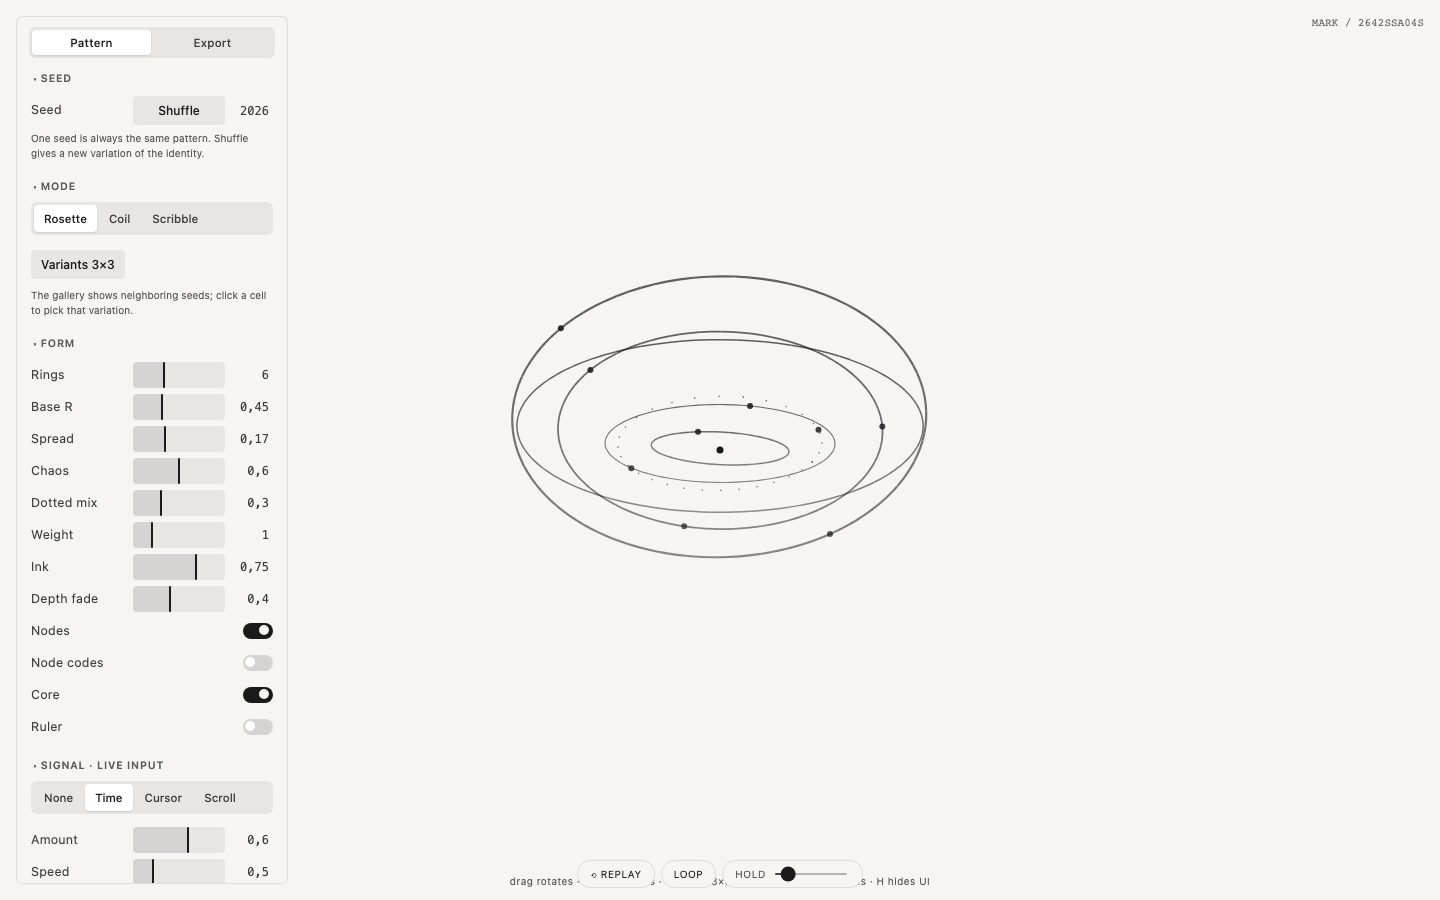
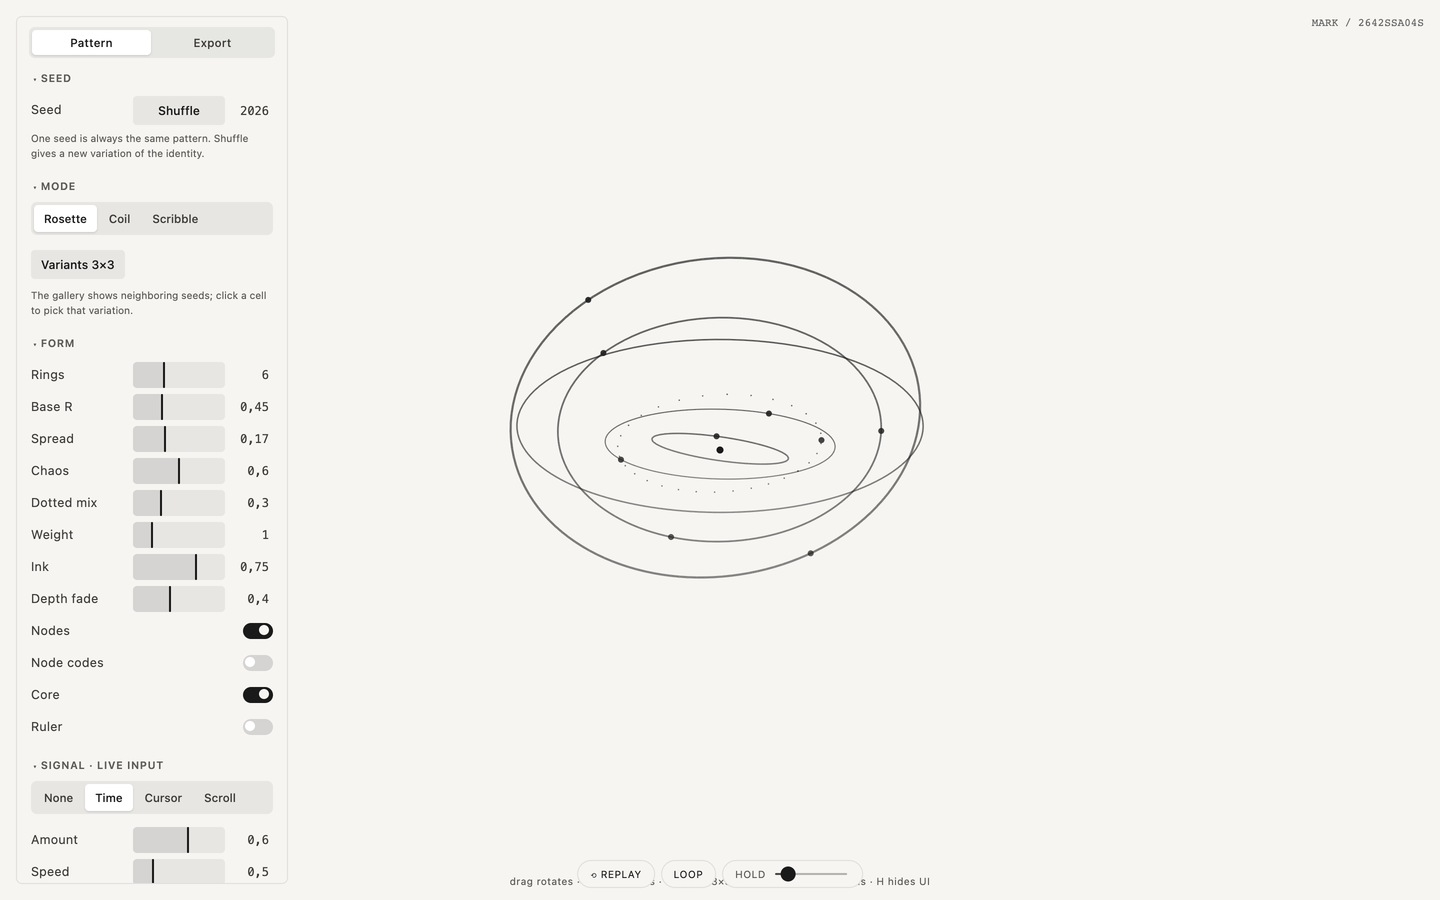
Cover, preview and search-friendly description

diff --git a/index.html b/index.html
@@ -115,7 +115,7 @@ legend{font:600 10.5px var(--h-sans);letter-spacing:.07em;color:var(--h-ink3)}
 #mtrans button[aria-pressed="true"]{background:var(--h-ink);color:var(--h-bg)}
 :focus-visible{outline:2px solid var(--h-ring);outline-offset:1px}
 </style>
[2 lines of base64/hex data omitted]
 </head>
 <body>
 <canvas id="cv"></canvas>

diff --git a/README.md b/README.md
@@ -19,6 +19,11 @@
 
 A machine for marks. Every seed is a pattern you can come back to; Shuffle finds the next one, and a 3×3 gallery shows its neighbors.
 
+## Use it for
+
+- a generative mark for a brand or a product
+- a family of related marks from neighboring seeds
+
 ## What it does
 
 - **Modes:** Rosette, Coil and Scribble
@@ -39,26 +44,26 @@ Take it if you want it.
 
 ## More tools
 
+- [GONE](https://github.com/robvagin/gone-player) · a macOS player for the thirty minutes before a DJ set
+- [PSP Engine](https://github.com/robvagin/shar-psp-engine) · a native engine that runs a PS2 game on the PSP. Not an emulator
 - [Particle Dance](https://github.com/robvagin/particle-dance) · particles that dance along patterns and 3D forms
+- [XYZ Cube](https://github.com/robvagin/xyz-cube) · your data as points in a 3D cube on axes you name
+- [Pack Label](https://github.com/robvagin/pack-label) · coffee bag labels, checked and ready for print
+- [Image Shuffler](https://github.com/robvagin/image-shuffler) · your screenshots flying in 3D, recorded as a video
+- [Sunburst](https://github.com/robvagin/sunburst) · a hierarchy as a 3D sunburst chart with height
+- [Halftone Cloud](https://github.com/robvagin/halftone-cloud) · images rebuilt as a halftone of flying shapes
+- [Motion Primer](https://github.com/robvagin/motion-primer) · bodies that swarm, orbit, fall and gather into a word
 - [Murmur](https://github.com/robvagin/murmur-vj) · a VJ visualizer: circles, triangles and squares that move to your music
+- [Particles 3D](https://github.com/robvagin/particles-3d) · a WebGL2 cloud of up to 300,000 particles
+- [Thinking Sphere](https://github.com/robvagin/thinking-sphere) · a glass sphere with soft shapes drifting inside
+- [Line Engine](https://github.com/robvagin/line-engine) · engraved line patterns in motion: Lissajous, rosettes, waves
 - [Orbital](https://github.com/robvagin/orbital) · data as orbits, axes or a bending mesh
 - [Metaballs](https://github.com/robvagin/metaballs) · soft masses that merge, split and leave holes
-- [Halftone Cloud](https://github.com/robvagin/halftone-cloud) · images rebuilt as a halftone of flying shapes
-- [Motion Primer](https://github.com/robvagin/motion-primer) · bodies with behaviors: swarm, pack, magnet, orbit, fall, scatter
-- [Particles 3D](https://github.com/robvagin/particles-3d) · a WebGL2 cloud of up to 300,000 particles
-- [Orb Atom](https://github.com/robvagin/orb-atom) · glass orbs that think: lenses with soft bodies drifting inside
 - [Ellipse Sphere](https://github.com/robvagin/ellipse-sphere) · a sphere built from stacked discs that fan open and assemble
-- [Thinking Sphere](https://github.com/robvagin/thinking-sphere) · a glass sphere with soft shapes drifting inside
-- [SphereGen](https://github.com/robvagin/spheregen) · a glass sphere that bends whatever is behind it: generative scenes, photos, video
-- [Line Engine](https://github.com/robvagin/line-engine) · engraved line patterns: superformulas, rosettes, waves and Lissajous, in motion
-- [XYZ Cube](https://github.com/robvagin/xyz-cube) · your data as points in a 3D cube on axes you name
 - [Hexbin](https://github.com/robvagin/hexbin) · a point cloud counted into 3D hexagon towers
 - [Chart 3D](https://github.com/robvagin/chart-3d) · pie, bars, polar and area charts in 3D, with an entrance
-- [Sunburst](https://github.com/robvagin/sunburst) · a hierarchy as a 3D sunburst with height
 - [Voronoi](https://github.com/robvagin/voronoi) · points that share space as cells, inside any shape
-- [Image Shuffler](https://github.com/robvagin/image-shuffler) · your screens flying in 3D, ready to record as a video
 - [Motion Pad](https://github.com/robvagin/motion-pad) · one pad for the character of motion
-- [Pack Label](https://github.com/robvagin/pack-label) · one label per coffee lot, checked and ready for print
 
 ## License
 
